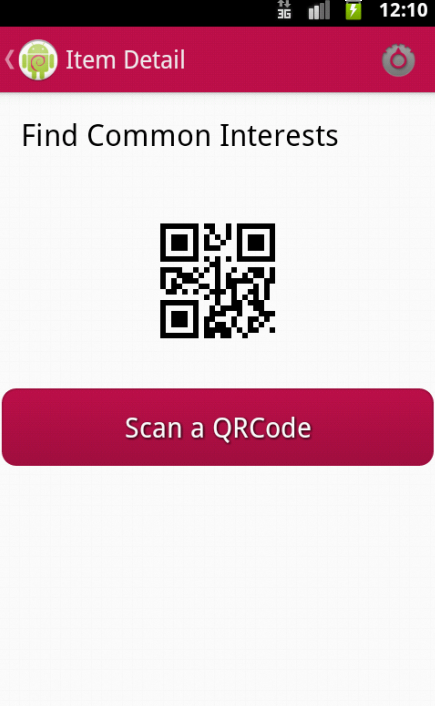
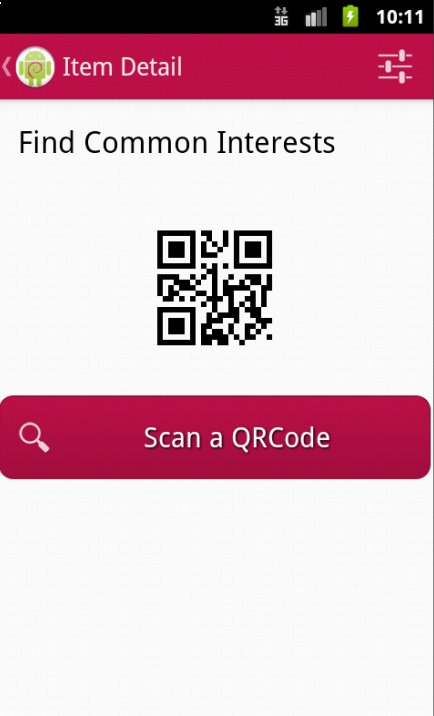
minor ui fixes + new screenshot

Changed region(s): [[0.0, 0.0, 1.0, 1.0], [0.3594, 0.3116, 0.659, 0.4986]]

diff --git a/src/com/debian/debiandroid/CIFFragment.java b/src/com/debian/debiandroid/CIFFragment.java
@@ -40,8 +40,7 @@ public class CIFFragment extends ItemDetailFragment {
     	
     	qrcodeView = (ImageView) rootView.findViewById(R.id.cifQRCodeView);
     	try {
-    	    // generate a 150x150 QR code
-    	    Bitmap bm = QRCodeEncoder.encodeAsBitmap("test", BarcodeFormat.QR_CODE, 200, 200);
+    	    Bitmap bm = QRCodeEncoder.encodeAsBitmap("test", BarcodeFormat.QR_CODE, 250, 250);
  
     	    if(bm != null) {
     	    	qrcodeView.setImageBitmap(bm);

diff --git a/src/com/debian/debiandroid/ItemDetailFragment.java b/src/com/debian/debiandroid/ItemDetailFragment.java
@@ -116,7 +116,7 @@ public class ItemDetailFragment extends SherlockFragment {
     
     public static void getSettingsMenuItem(Menu menu) {
 		MenuItem item = menu.add(0, SETTINGS_ID, 0, "Settings");
-		item.setIcon(android.R.drawable.ic_menu_preferences);
+		item.setIcon(R.drawable.settings);
 		
 		item.setShowAsAction(MenuItem.SHOW_AS_ACTION_IF_ROOM);
 	}
